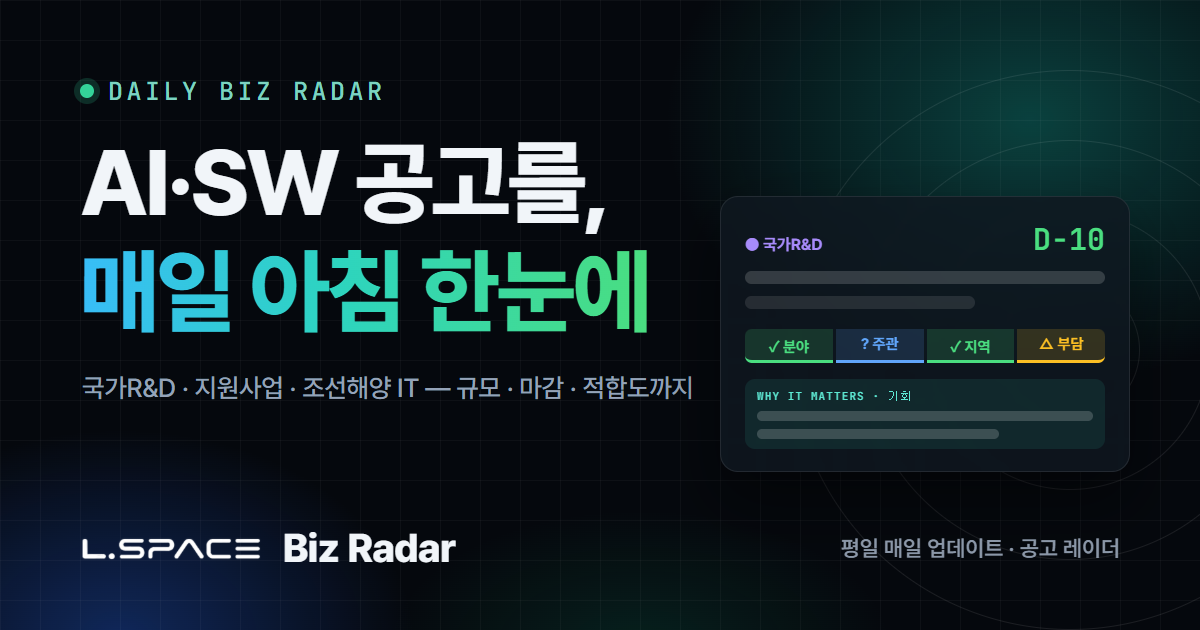
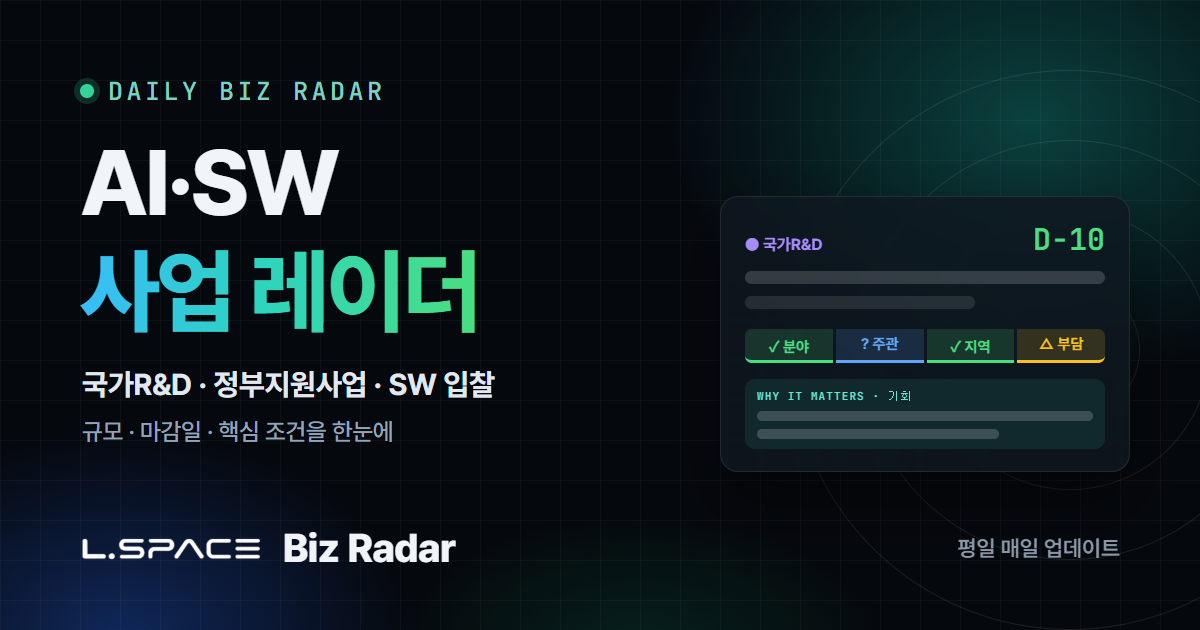
Content: OG 이미지를 새 타이틀(AI·SW 사업 레이더)로 교체
- og-cover.png 재생성, ?v=2026102002 로 캐시 갱신

diff --git a/tools/og-cover.html b/tools/og-cover.html
@@ -26,7 +26,8 @@
   .eyebrow b { width: 14px; height: 14px; border-radius: 50%; background: #34d399; box-shadow: 0 0 0 6px rgba(52,211,153,.18); }
   h1 { position: absolute; left: 80px; top: 128px; margin: 0; font-size: 92px; font-weight: 800; line-height: 1.18; letter-spacing: -0.035em; }
   h1 em { font-style: normal; background: linear-gradient(90deg, #38bdf8, #2dd4bf 45%, #4ade80); -webkit-background-clip: text; background-clip: text; color: transparent; }
-  .sub { position: absolute; left: 82px; top: 372px; font-size: 26px; font-weight: 500; color: #94a3b8; letter-spacing: -0.01em; }
+  .sub { position: absolute; left: 82px; top: 362px; font-size: 30px; font-weight: 700; line-height: 1.5; color: #e2e8f0; letter-spacing: -0.01em; }
+  .sub span { font-size: 24px; font-weight: 500; color: #94a3b8; }
 
   /* 축소 카드: 실제 목록의 판정 줄 */
   .card {
@@ -61,8 +62,8 @@
     <i style="inset:0"></i><i style="inset:70px"></i><i style="inset:140px"></i><i style="inset:210px"></i>
   </div>
   <div class="eyebrow"><b></b>DAILY BIZ RADAR</div>
-  <h1>AI·SW 공고를,<br><em>매일 아침 한눈에</em></h1>
-  <div class="sub">국가R&amp;D · 지원사업 · 조선해양 IT — 규모 · 마감 · 적합도까지</div>
+  <h1>AI·SW<br><em>사업 레이더</em></h1>
+  <div class="sub">국가R&amp;D · 정부지원사업 · SW 입찰<br><span>규모 · 마감일 · 핵심 조건을 한눈에</span></div>
 
   <div class="card">
     <div class="top"><span class="type">● 국가R&amp;D</span><span class="dday">D-10</span></div>
@@ -73,7 +74,7 @@
 
   <div class="foot">
     <div class="brand"><img src="../assets/images/lspace_logo.png" alt="L.SPACE">Biz Radar</div>
-    <div class="tagline">평일 매일 업데이트 · 공고 레이더</div>
+    <div class="tagline">평일 매일 업데이트</div>
   </div>
 </div>
 </body>

diff --git a/index.html b/index.html
@@ -10,12 +10,12 @@
   <meta property="og:title" content="AI·SW 사업 레이더 — L.SPACE Biz Radar">
   <meta property="og:description" content="국가R&amp;D · 정부지원사업 · SW 입찰 — 개발·AI·IT 분야의 사업 기회를 평일 매일 탐색하고, 규모·마감일·핵심 조건을 한눈에 확인합니다.">
   <meta property="og:url" content="https://lspace-next.github.io/BizRadar/">
-  <meta property="og:image" content="https://lspace-next.github.io/BizRadar/assets/images/og-cover.png?v=20261020">
+  <meta property="og:image" content="https://lspace-next.github.io/BizRadar/assets/images/og-cover.png?v=2026102002">
   <meta property="og:image:width" content="1200">
   <meta property="og:image:height" content="630">
-  <meta property="og:image:alt" content="L.SPACE Biz Radar — AI·SW 공고를, 매일 아침 한눈에">
+  <meta property="og:image:alt" content="AI·SW 사업 레이더 — 국가R&amp;D · 정부지원사업 · SW 입찰">
   <meta name="twitter:card" content="summary_large_image">
-  <meta name="twitter:image" content="https://lspace-next.github.io/BizRadar/assets/images/og-cover.png?v=20261020">
+  <meta name="twitter:image" content="https://lspace-next.github.io/BizRadar/assets/images/og-cover.png?v=2026102002">
   <meta name="theme-color" content="#f4f5f7" media="(prefers-color-scheme: light)">
   <meta name="theme-color" content="#07090f" media="(prefers-color-scheme: dark)">
   <link rel="icon" href="assets/images/profile_lspace.jpg" type="image/jpeg">
